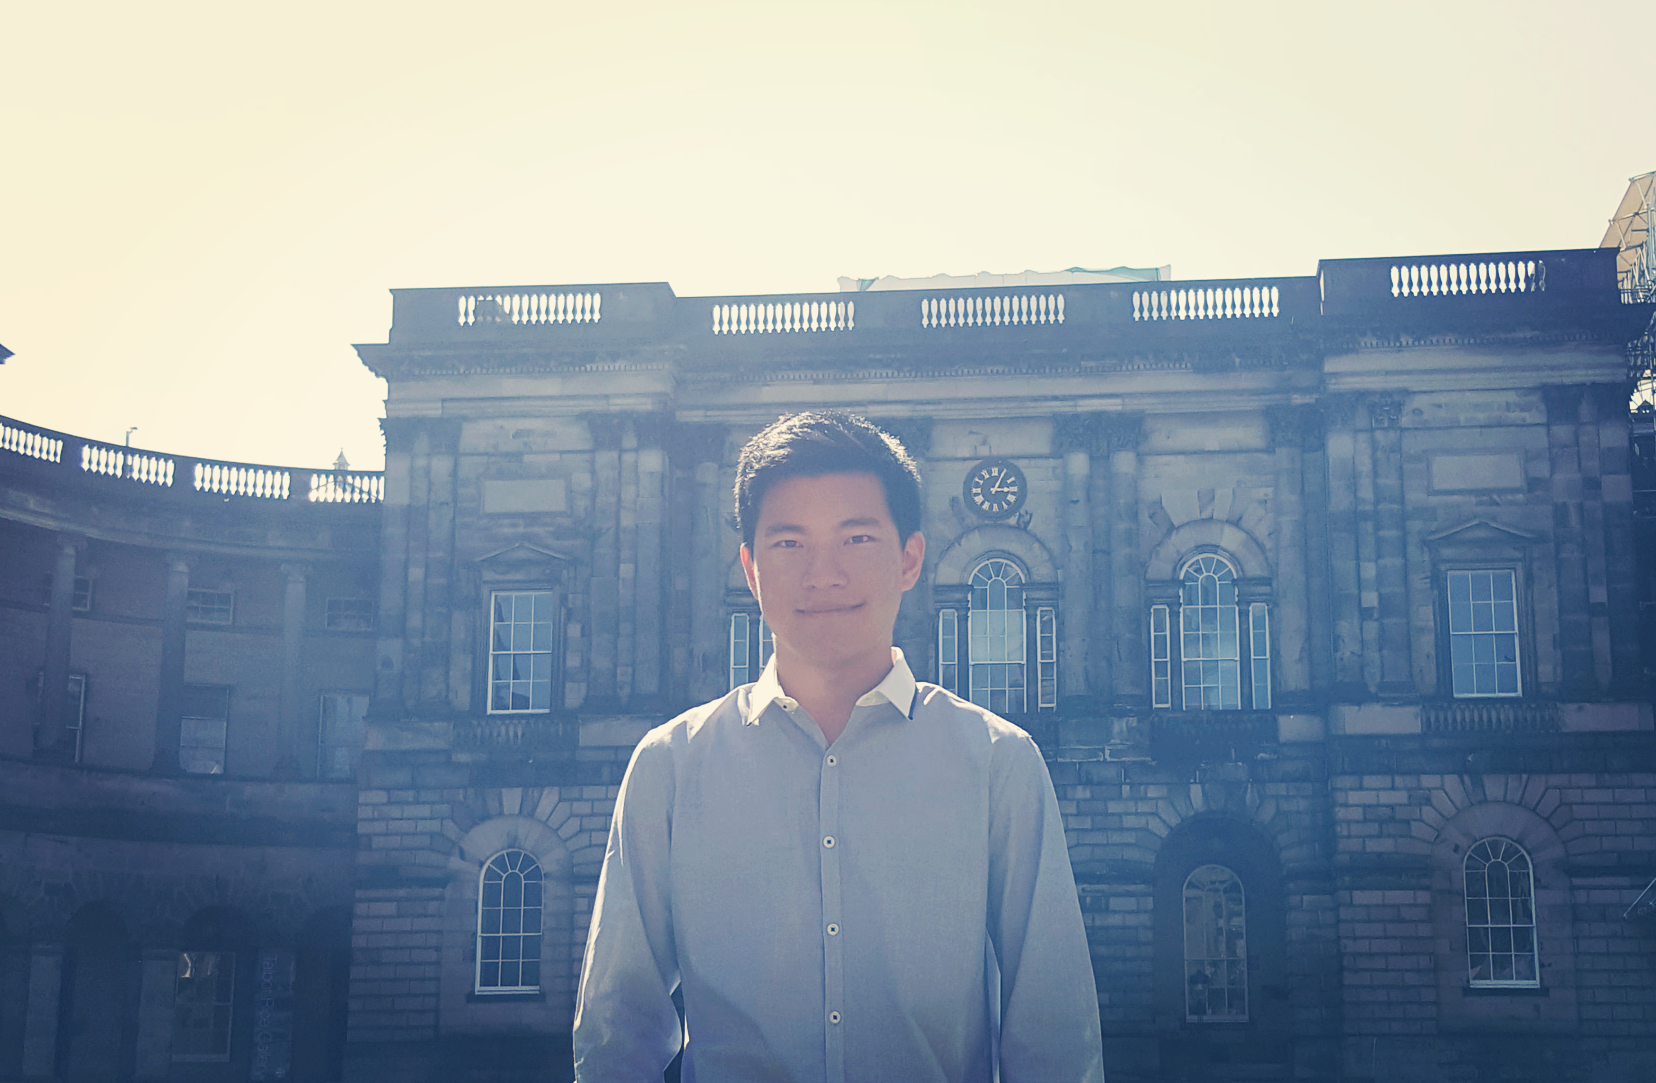
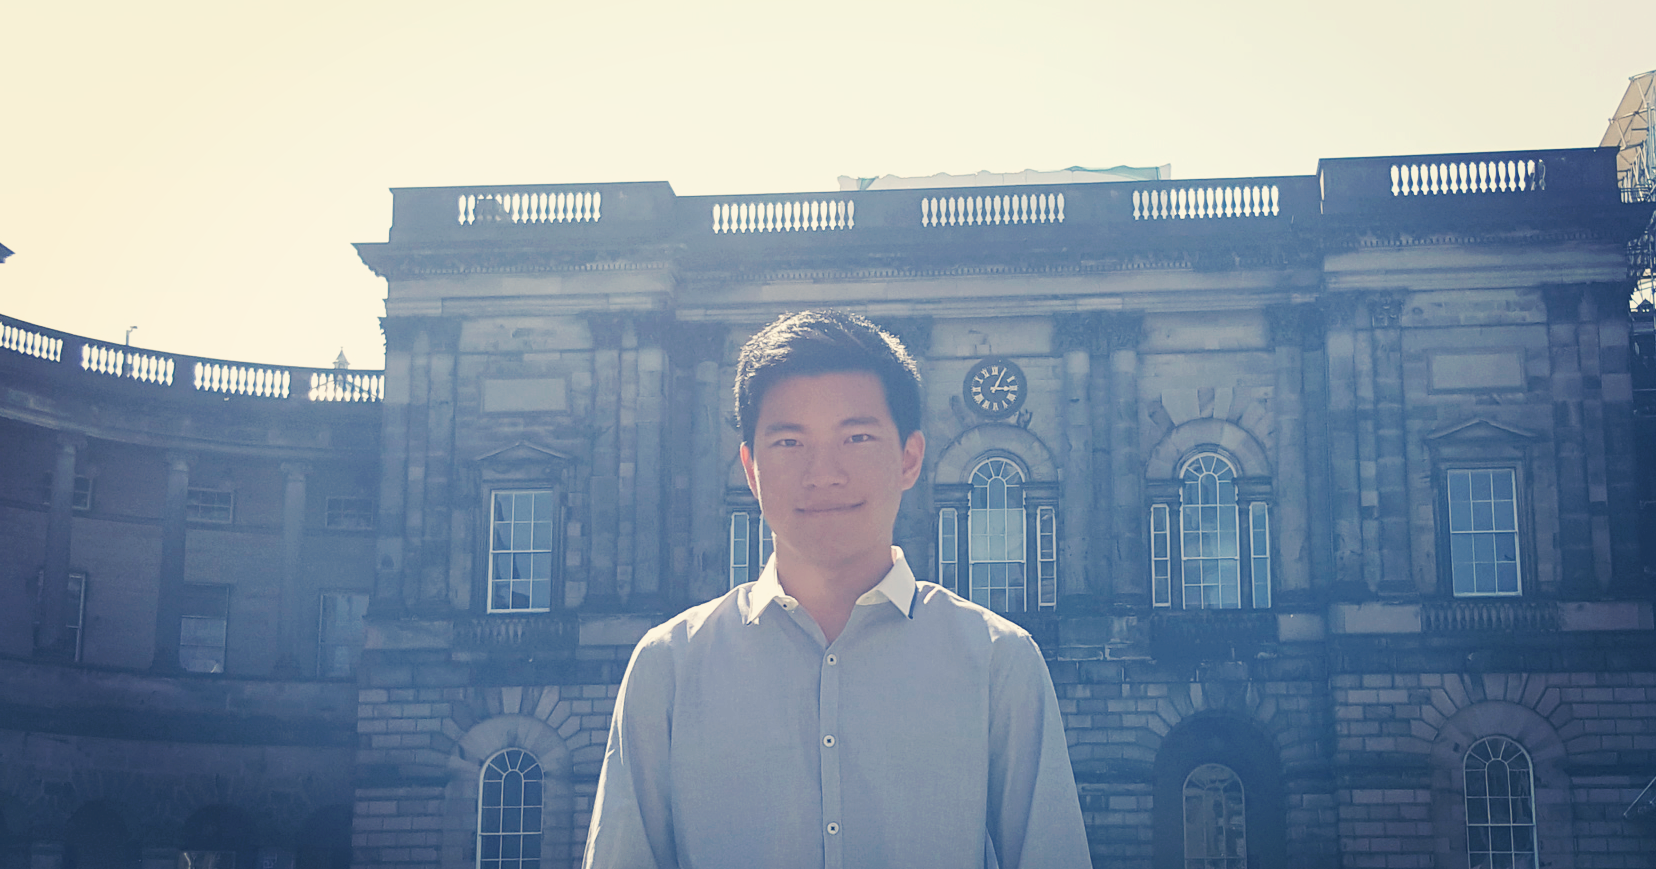
KS2P Def

diff --git a/index.html b/index.html
@@ -39,7 +39,7 @@
             <a href="#" class="dropdown-toggle" data-toggle="dropdown" role="button" aria-haspopup="true" aria-expanded="false">PROGRESS<span class="caret"></span></a>
             <ul class="dropdown-menu">
               <li><a href="#current">Status &amp; Projects</a></li>
-              <li><a href="#skills">Language Skills</a></li>
+              <li><a href="#skills">Skills</a></li>
               <li><a href="#workexperience">Work Experience</a></li>
               <li><a href="#volunteering">Volunteering</a></li>
             </ul>
@@ -147,10 +147,11 @@
       <img src="./images/un.jpg">
       <h4>Project KS2P (Knowledge Share 2&pi;)</h4>
       <p>
-        We live in a world of constant technological innovations. More and more information and opportunities become readily available. Be it current world affairs, educational insights, career advice, job opportunity, sustainable development or other areas of expertise.  However, the main challenge is that the internet is flooded of irrelevant information and how we can to make relevant information available for the relevant people. This challenge includes the language barriers as information is often only available in dominant speaking languages such as English.
+        Knowledge Share 2 Pi (aka KS2P) is focused on providing a secure social and professional worldwide platform to help people reach their potential and empower young people and encourage multicultural interaction, thus promote global entrepreneurship. These objectives are obtained by providing users relevant source of information from peers and mentors from around the world. Topics are limitless, thus encourage users to discover and learn. This will be an open platform that connects people to the relevant peers and mentors which allows social and professional networking, thus allowing long term mentoring, peer to peer support and progress monitoring. The main idea to share knowledge, encourage cross-border communication, self-development and find the right connection for the right problem.
       </p>
+
       <p>
-        To overcome these challenges my colleague Jázon Szabó and I are building a world-wide platform which connects people seeking knowledge with experts who can speak their native tongue and who perhaps have been in the same boat or who just want to contribute their own knowledge in order to help. This platform acts as a gateway for the aforementioned idea which will drive the younger generation into a better future with extensive help from mentors across the world.
+        My colleague Jázon Szabó and I are dedicating our time alongside various other programmes in building this novel platform for the greater good.
       </p>
       <p>Knowledge is powerful and is a way out of poverty.</p>
     </p>
@@ -159,8 +160,8 @@
   </div>
 
   <div id = "skills" class="row featurette" style = "margin-top: 50px; margin-bottom: 50px; padding-top:40px">
-    <h2>Language Skills</h2>
-    <h4>As of June 2016, my language skills are:</h4>
+    <h2>Skills</h2>
+    <h4>As of 01/07/2016, my language skills are:</h4>
     <div class = "col-sm-6 col-xs-6">
       <p><b>Improving &amp; Learning: </b> HTML, CSS, JavaScript</p>
       <p><b>Intermediate:</b> Python, Java</p>
@@ -173,6 +174,11 @@
       <p><b>Advanced: </b> Spanish </p>
       <p><b>Novice: </b> Portuguese </p>
     </div>
+    <div class = "clearfix col-xs"></div>
+
+    <h4 style = " margin-top: 30px">As of 01/07/2016, my other technical skills are:</h4>
+    <p><b>Improving &amp; Learning: </b>3D Modelling, ROS</p>
+
   </div>
 
   <hr  id ="workexperience"  style = "margin-top: -50px">
